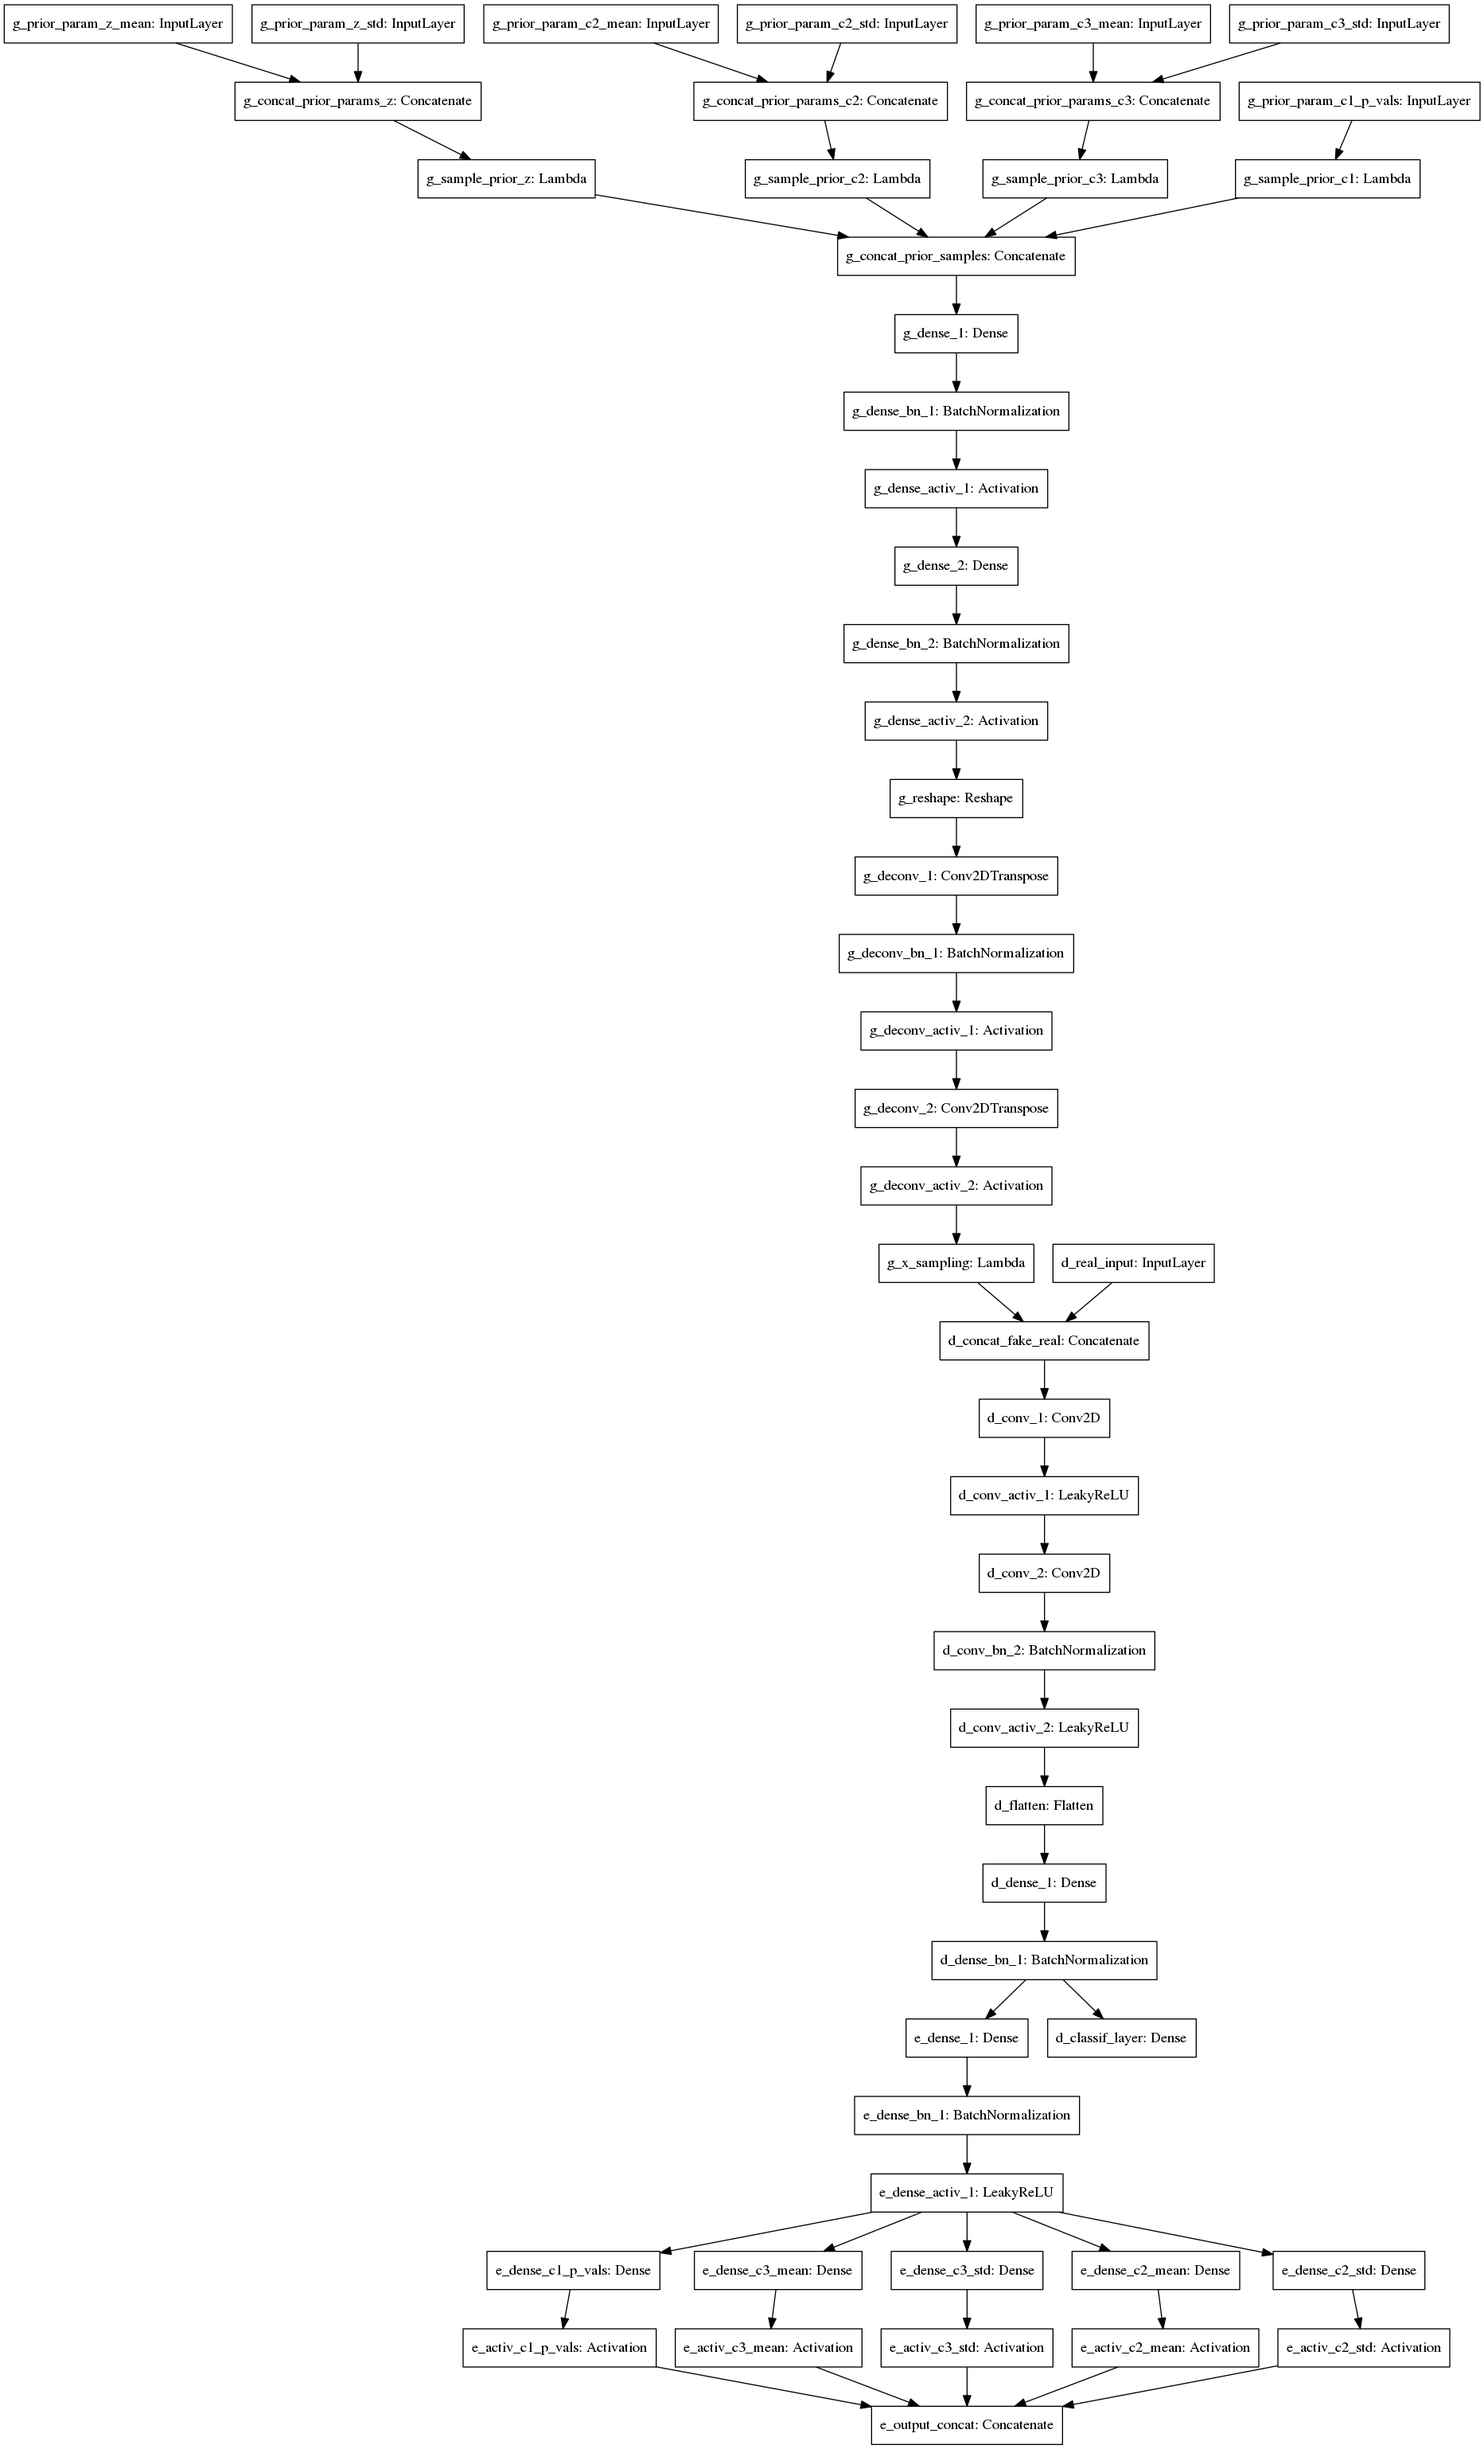
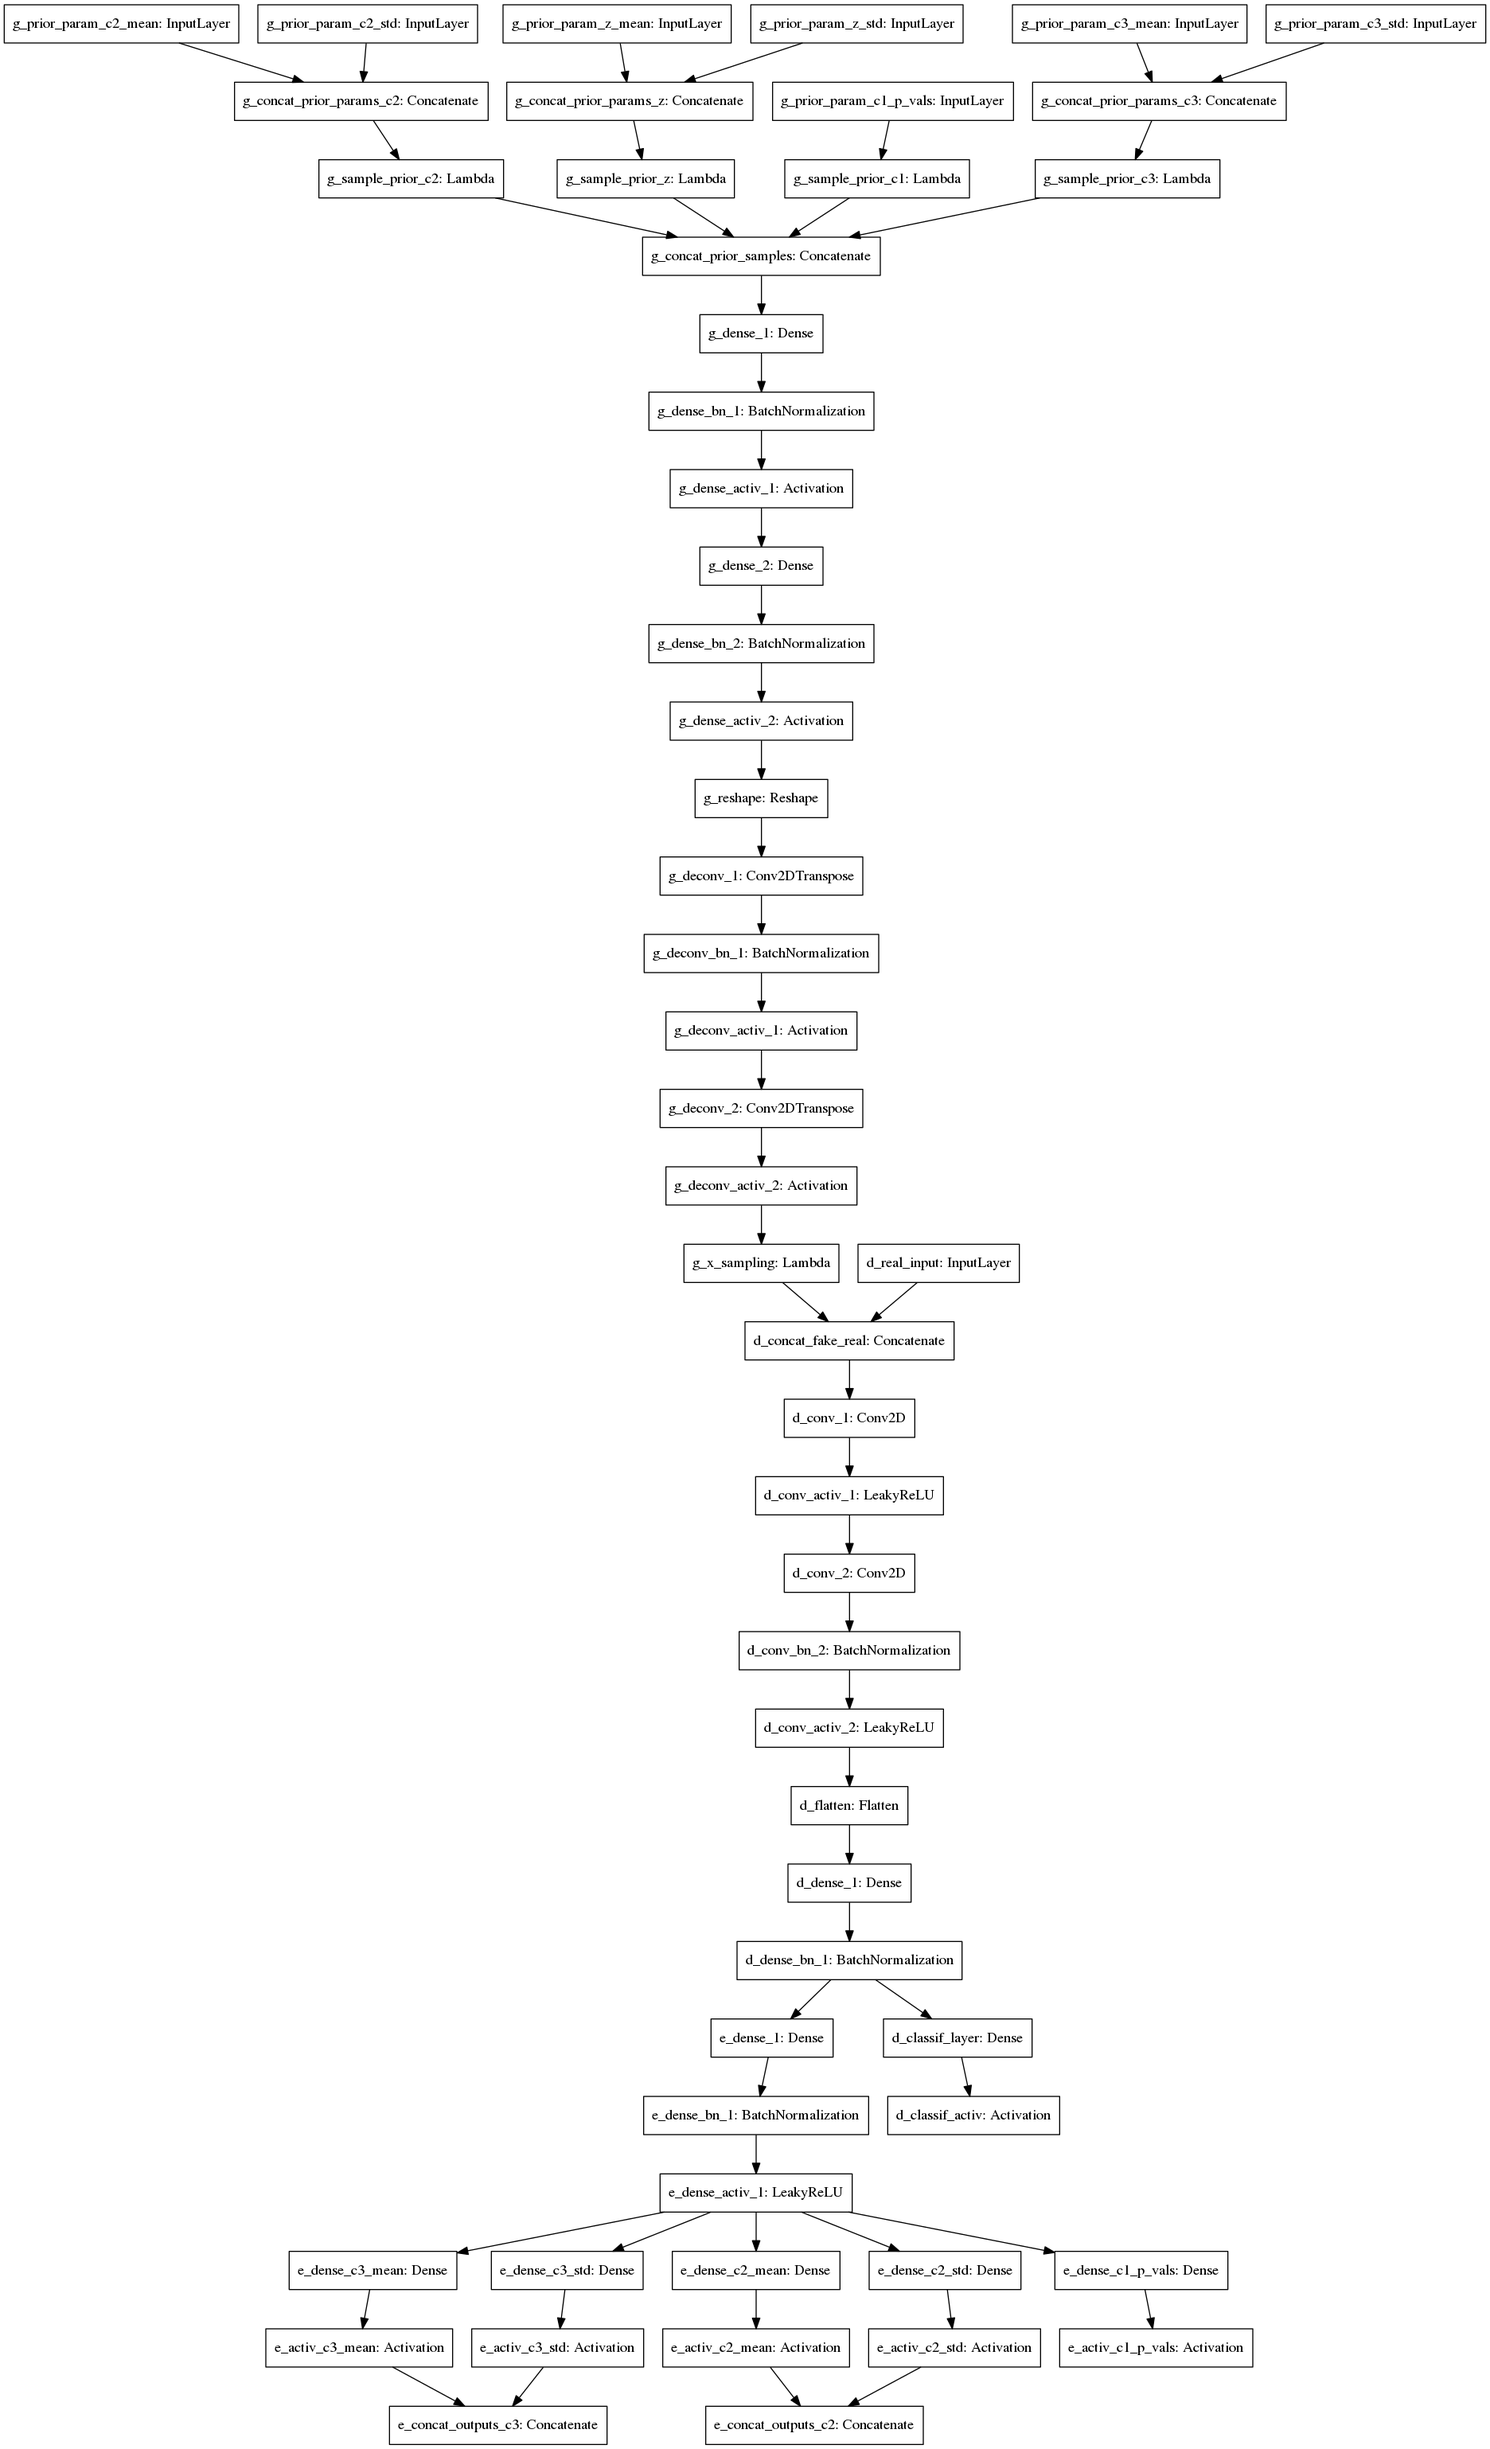
Fix a bug with the discriminator & refactor MI
Better handling of the MI losses: now we have a separated loss
for each distribution.

Fix a bug with the discrim.: the sigmoid activation at the end was
missing.

diff --git a/learn/models/infogan.py b/learn/models/infogan.py
@@ -44,6 +44,8 @@ class InfoGAN(object):
 
         real_input = Input(shape=self.image_shape, name="d_real_input")
         sampled_latents, prior_param_inputs, prior_param_names, prior_param_dist_names = self._sample_latent_inputs()
+        sampled_latents_flat = list(sampled_latents.values())
+        merged_samples = Concatenate(axis=-1, name="g_concat_prior_samples")(sampled_latents_flat)
 
         self.prior_param_inputs = prior_param_inputs
         self.prior_param_names = prior_param_names
@@ -51,7 +53,7 @@ class InfoGAN(object):
 
         # GENERATOR
         # --------------------------------------------------------------------
-        generation_params = generation_net(inputs=sampled_latents,
+        generation_params = generation_net(inputs=merged_samples,
                                            image_shape=self.image_shape)
 
         generated = Lambda(function=self._sample_image,
@@ -77,6 +79,7 @@ class InfoGAN(object):
 
         # binary output for the GAN classification
         disc_out = Dense(1, name="d_classif_layer")(shared)
+        disc_out = Activation(activation=K.sigmoid, name="d_classif_activ")(disc_out)
 
         def disc_loss(targets, preds):
             # targets are disregarded, as it's clear what they are
@@ -110,47 +113,36 @@ class InfoGAN(object):
         encoder_net = LeakyReLU(name="e_dense_activ_1")(encoder_net)
 
         # add outputs for the parameters of all assumed meaninful distributions
-        dist_outputs = {}
-        for name, dist in meaningful_dists.items():
-            outputs = self._add_dist_outputs(name, dist, encoder_net)
-            dist_outputs[name] = outputs
+        posterior_outputs = []
+        mi_losses = []
+        for dist_name, dist in meaningful_dists.items():
+            param_outputs_dict = self._add_dist_outputs(dist_name, dist, encoder_net)
+            param_outputs_list = []
+            param_names_list = []
+            param_outputs_dims = []
 
-        latent_outputs_list = []
-        for dist_output in dist_outputs.values():
-            latent_outputs_list += dist_output.values()
-        encoder_out = Concatenate(axis=-1, name="e_output_concat")(latent_outputs_list)
+            for param_name, (dim, _) in dist.param_info().items():
+                param_outputs_list.append(param_outputs_dict[param_name])
+                param_outputs_dims.append(dim)
+                param_names_list.append(param_name)
 
-        # TODO: instead of indexing 1 big loss, make a dictionary of one loss
-        # per distribution
-        def mutual_info_loss(targets, preds):
-            # Again, the targets are essentially ignored
-            param_index = 0
-            sample_index = 0
-            loss = 0
+            if len(param_outputs_list) > 1:
+                merged_params = Concatenate(axis=-1,
+                                            name="e_concat_outputs_{}".format(dist_name))(param_outputs_list)
+            else:
+                merged_params = param_outputs_list[0]
 
-            # take only the generated samples
-            preds = preds[:self.batch_size]
+            posterior_outputs.append(merged_params)
 
-            for dist in self.meaningful_dists.values():
-                # form the parameter dict of each distribution
-                param_dict = {}
-                for param_name, (dim, _) in dist.param_info().items():
-                    param_dict[param_name] = preds[:, param_index:param_index + dim]
-                    param_index += dim
+            # build the mi_loss
+            samples = sampled_latents[dist_name]
+            mi_loss = self._build_mi_loss(samples, dist, param_names_list, param_outputs_dims)
 
-                # now get the sampled latent factors for this dist.
-                sample_size = dist.sample_size()
-                latent_samples = sampled_latents[:, sample_index:sample_index + sample_size]
-                sample_index += sample_size
-
-                # finally compute the NLL
-                loss += dist.nll(latent_samples, param_dict)
-
-            return loss
+            mi_losses.append(mi_loss)
 
         self.encoder_model = Model(inputs=[real_input] + prior_param_inputs,
-                                   outputs=encoder_out, name="enc_model")
-        self.encoder_model.compile(optimizer='adam', loss=mutual_info_loss)
+                                   outputs=posterior_outputs, name="enc_model")
+        self.encoder_model.compile(optimizer='adam', loss=mi_losses)
 
         # ENCODER + GENERATOR are trained together
         def gen_loss(targets, preds):
@@ -164,9 +156,9 @@ class InfoGAN(object):
             return loss
 
         self.enc_gen_model = Model(inputs=[real_input] + prior_param_inputs,
-                                   outputs=[disc_out, encoder_out],
+                                   outputs=[disc_out] + posterior_outputs,
                                    name="enc_gen_model")
-        self.enc_gen_model.compile(optimizer='adam', loss=[gen_loss, mutual_info_loss])
+        self.enc_gen_model.compile(optimizer='adam', loss=[gen_loss] + mi_losses)
 
         # DEBUGGING
         self._layer_functions = {}
@@ -177,26 +169,25 @@ class InfoGAN(object):
                                                            outputs=[layer.get_output_at(0)])
 
     def _sample_latent_inputs(self):
-        samples = []
+        samples = {}
         all_param_inputs = []
         all_param_names = []
         all_param_dist_names = []
         for name, dist in self.noise_dists.items():
             sample, param_names, param_inputs = self._sample_latent_input(name, dist)
-            samples.append(sample)
+            samples[name] = sample
             all_param_inputs += param_inputs
             all_param_names += param_names
             all_param_dist_names += [name] * len(param_names)
 
         for name, dist in self.meaningful_dists.items():
             sample, param_names, param_inputs = self._sample_latent_input(name, dist)
-            samples.append(sample)
+            samples[name] = sample
             all_param_inputs += param_inputs
             all_param_names += param_names
             all_param_dist_names += [name] * len(param_names)
 
-        merged_samples = Concatenate(axis=-1, name="g_concat_prior_samples")(samples)
-        return merged_samples, all_param_inputs, all_param_names, all_param_dist_names
+        return samples, all_param_inputs, all_param_names, all_param_dist_names
 
     def _sample_latent_input(self, dist_name, dist):
         param_names = []
@@ -251,6 +242,18 @@ class InfoGAN(object):
             outputs[param] = out
         return outputs
 
+    def _build_mi_loss(self, samples, dist, param_names_list, param_outputs_dims):
+        def mutual_info_loss(targets, preds):
+            # ignore the targets
+            param_dict = {}
+            param_index = 0
+            for param_name, dim in zip(param_names_list, param_outputs_dims):
+                param_dict[param_name] = preds[:, param_index:param_index + dim]
+                param_index += dim
+            loss = dist.nll(samples, param_dict)
+            return loss
+        return mutual_info_loss
+
     def _assemble_prior_params(self):
         params = []
         for dist_name, param_name in zip(self.prior_param_dist_names, self.prior_param_names):
@@ -258,16 +261,18 @@ class InfoGAN(object):
         return params
 
     def train_disc_pass(self, samples_batch):
-        dummy_targets = np.ones((self.batch_size,), dtype=np.float32)
+        dummy_targets = [np.ones((self.batch_size,), dtype=np.float32)] * \
+            len(self.disc_model.outputs)
         prior_params = self._assemble_prior_params()
         return self.disc_model.train_on_batch([samples_batch] + prior_params,
-                                              [dummy_targets])
+                                              dummy_targets)
 
     def train_gen_pass(self, samples_batch):
-        dummy_targets = np.ones((self.batch_size,), dtype=np.float32)
+        dummy_targets = [np.ones((self.batch_size,), dtype=np.float32)] * \
+            len(self.enc_gen_model.outputs)
         prior_params = self._assemble_prior_params()
         return self.enc_gen_model.train_on_batch([samples_batch] + prior_params,
-                                                 [dummy_targets, dummy_targets])
+                                                 dummy_targets)
 
     def activation(self, index, samples):
         name = self._layer_names[index]

diff --git a/learn/models/model_trainer.py b/learn/models/model_trainer.py
@@ -30,10 +30,8 @@ class ModelTrainer(object):
             counter += 1
             if counter % 10 == 9:
                 gen_losses = self.model.train_gen_pass(samples)
-                for i in range(len(self.model._layer_functions)):
-                    name, output = self.model.activation(i, samples)
-
-                    continue
+                # for i in range(len(self.model._layer_functions)):
+                # name, output = self.model.activation(i, samples)
 
                 print("Gen losses: {}".format(gen_losses) + "\tDisc loss: {}".format(disc_loss))
                 loss_logs = {}

diff --git a/main.py b/main.py
@@ -17,8 +17,8 @@ batch_size = 1
 if __name__ == "__main__":
     (x_train, y_train), (x_test, y_test) = mnist.load_data()
 
-    x_train = x_train.reshape((-1, 1, 28, 28))
-    x_test = x_test.reshape((-1, 1, 28, 28))
+    x_train = x_train.reshape((-1, 1, 28, 28)) / 255
+    x_test = x_test.reshape((-1, 1, 28, 28)) / 255
 
     datagen = ImageDataGenerator(data_format='channels_first')
     datagen.fit(x_train)
